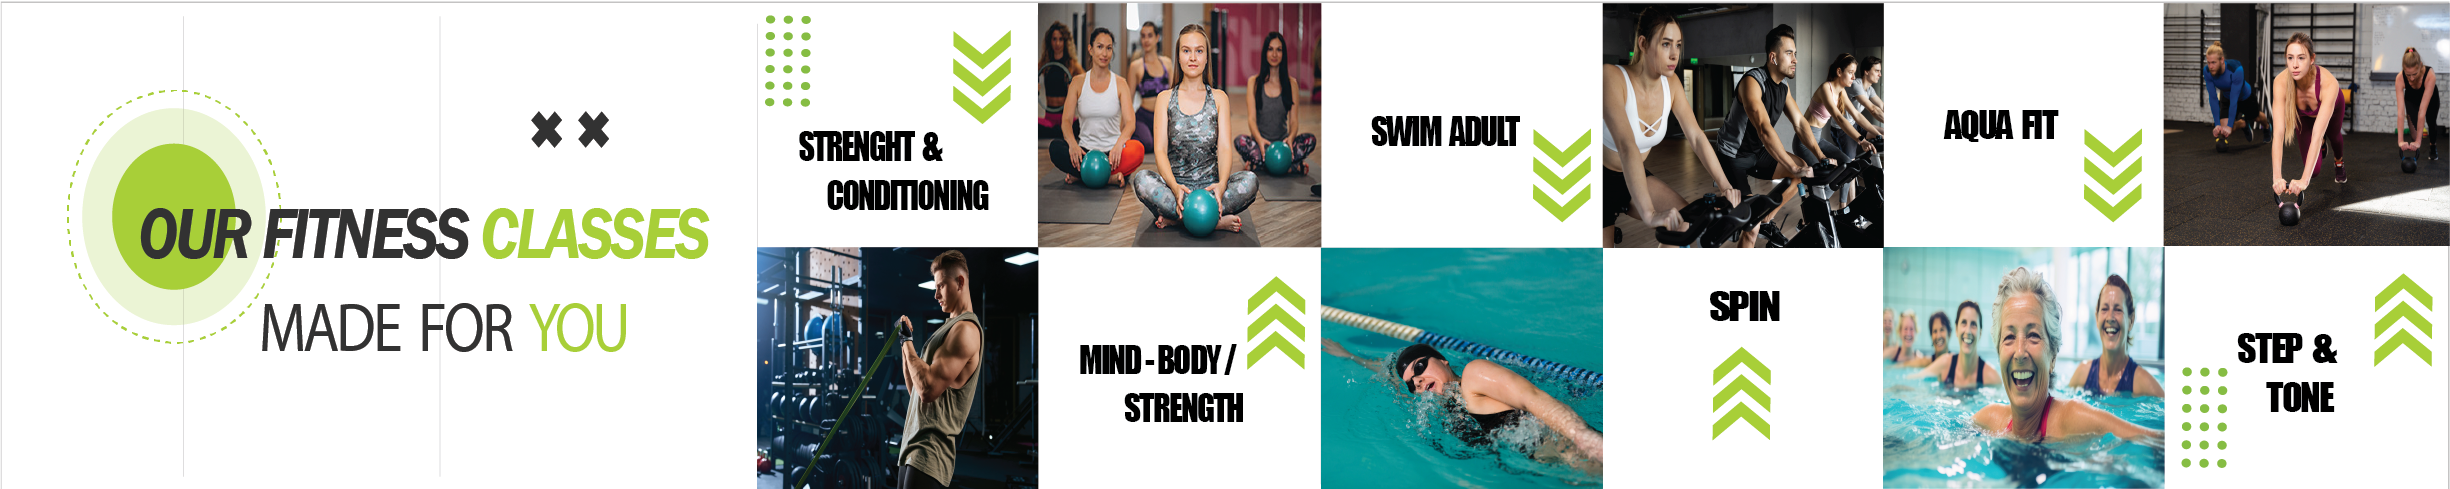
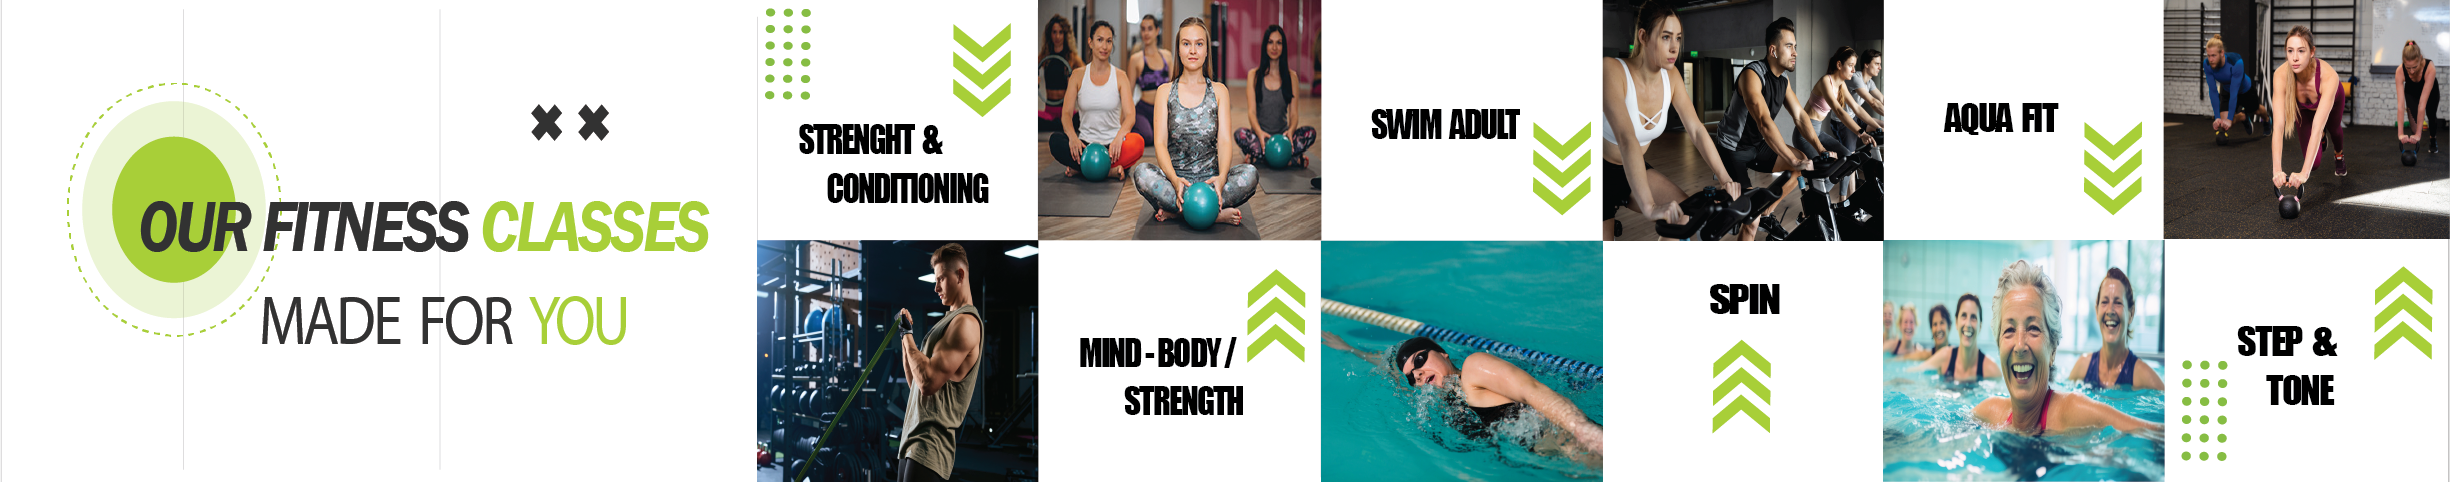
responsive-page-3-4

diff --git a/css/swim.css b/css/swim.css
@@ -83,8 +83,6 @@ h1 {
     box-shadow: 0 15px 20px rgba(0, 0, 0, 0.356);
     margin-top: 3rem;  
     margin-left: 3rem;
-    
-    
 }
 
 .article-container-aquafit {
@@ -144,4 +142,114 @@ h3 {
     margin-left: 4em;
     padding: 0.5rem;
     font-size: 1.3rem;
+}
+
+
+@media (max-width: 480px) {
+   
+    .btn {
+		flex-wrap: wrap;
+		justify-content: center;
+		align-items: center;
+		padding:6px 6px;
+		font-size:0.5rem;
+		font-weight: bold;
+		border-radius: 0.5rem
+    }
+
+    .navbar-container .logo {
+		display: flex;
+        left:10rem;
+		width: 22vw;
+	    height: 10vh;
+		transform: translate(1%, -40%);	
+	}
+
+    .banner-article {
+        height: 8.5vh;
+    }
+
+    .article-main {
+        width: 100%;
+        gap: 1rem;
+        margin-top: 0.5rem;
+        border-radius: 1rem;
+    }
+
+    .article-container-aerobics {
+        padding: 2rem;
+        gap: 1rem; 
+        margin-top: 0.5rem;
+        border-radius: 1rem;
+    }
+    .article-container-aquatic {
+        display: flex;
+        flex-direction: column;
+        border-radius: 1rem;
+
+        padding: 2.5rem;
+        gap: 2rem;
+    }
+
+    .featured-image img {
+        width: 58vw;
+        height: 25vh;  
+        margin-left: 1rem; 
+    }
+
+    .article-paragraph h3 {
+        font-size: 1.3rem;
+        padding-left: 1rem;
+    }
+
+    h1 {
+        font-size: 1.5rem;
+        margin-left: 0;
+    }
+
+    .image-aquatic img {
+        object-fit: cover;
+        width: 25vh;
+        border-radius: 0.8rem;
+        box-shadow: 0 15px 20px rgba(0, 0, 0, 0.356);
+        margin-top: 1rem;  
+        margin-left: 0rem;
+    }
+    
+    .article-paragraph h2 {
+        margin-top: 0.5rem;
+        font-size: 1.3rem;
+    }
+
+    .image-meal img {
+        width: 60vw;
+        margin-top: 1.5rem; 
+        padding: 0;
+        text-align: center;
+    }
+
+    .article-paragraph ul li {
+        font-size: 1.1rem;
+        text-align: left;
+        margin-left: 1rem;
+        font-size: 1.1rem;
+    }
+
+    .article-paragraph p {
+        display: flex;
+        flex-direction: column;
+        margin: 0.5rem 0;
+        font-size: 1.1rem;
+        padding-left: 0.4rem;
+        padding-right: 0.4rem;
+        letter-spacing: normal
+     }  
+       
+     .image-hydration img {
+        width: 55vw;  
+        margin-top: 2rem;
+        text-align:center;
+    }    
+    
+    
 }

diff --git a/css/main-menu.css b/css/main-menu.css
@@ -6,9 +6,8 @@
 .navbar-container {
 	display: flex;	
 	justify-content:center;
-	padding: 2.5rem;
-	margin-top: 1rem;
-
+	padding: 3rem;
+	border-bottom: 2px solid #8bc53f;
 }
 
 .btn{
@@ -46,8 +45,8 @@
 	background-size: contain;
     background-repeat: no-repeat;
 	text-align: center;
-	height: 58vh;
-	max-height: 58vh;
+	width: 100vw;
+	height: 57vh;
 }
 
 
@@ -117,6 +116,9 @@
 		flex-wrap: wrap;
 		justify-content: center;
 		align-items: center;
+		margin-top: 1rem;
+		padding: 2rem;
+		border-bottom: 1px solid #8bc53f;
 	}
 
 	.btn {
@@ -130,7 +132,7 @@
     }
 	
 	.banner-image {
-		height: 13vh;
+		height: 12.3vh;
 	}	
 
 	.navbar-container .logo {

diff --git a/css/main-page.css b/css/main-page.css
@@ -12,7 +12,7 @@
 article {
     background-color: #314a76;
     opacity: 0.9;
-    padding-top: 1rem;
+    padding-top:2rem;
 }
 
 h1 {
